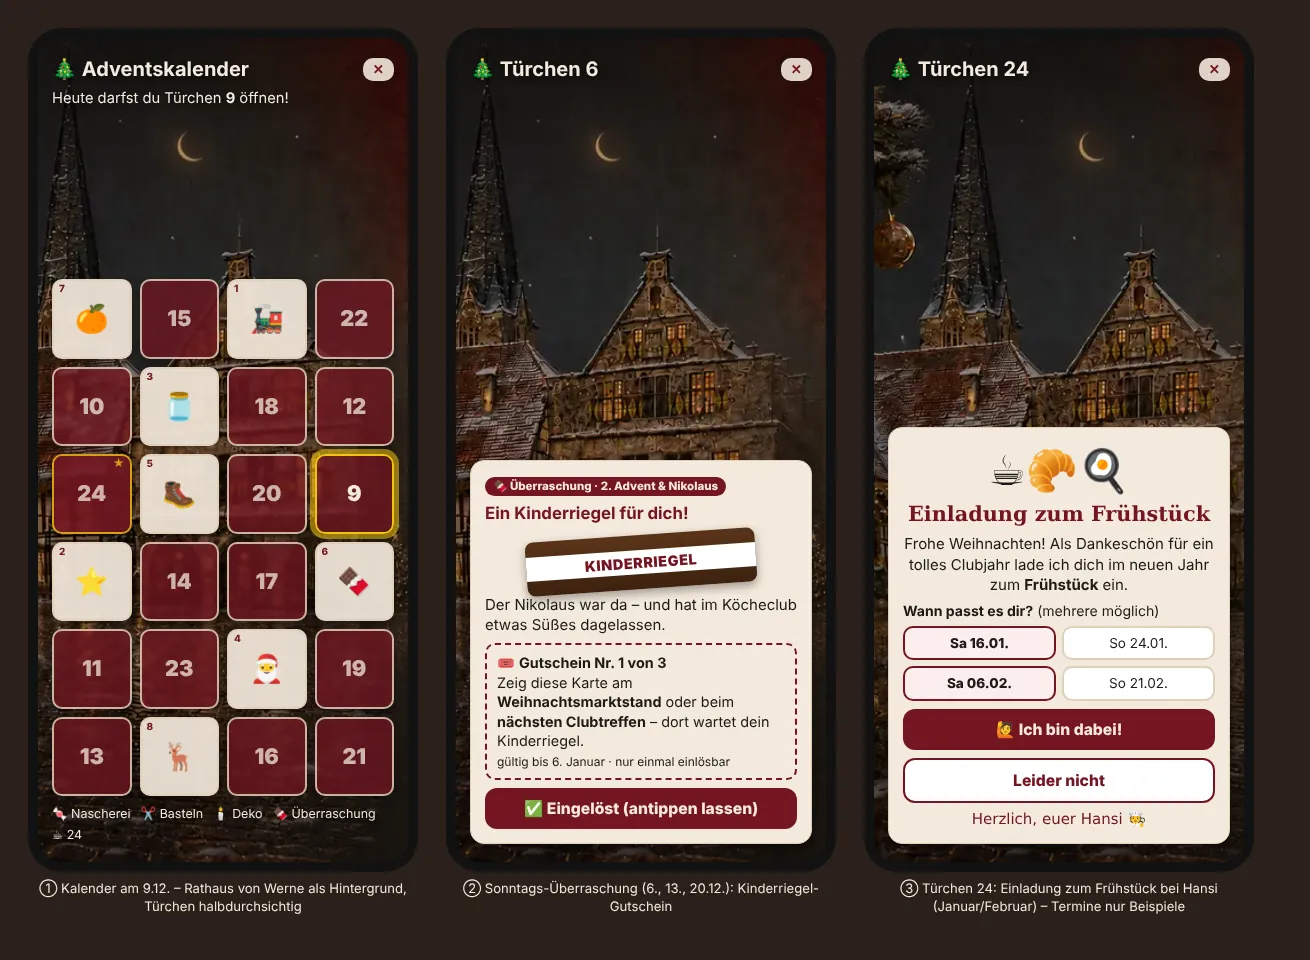
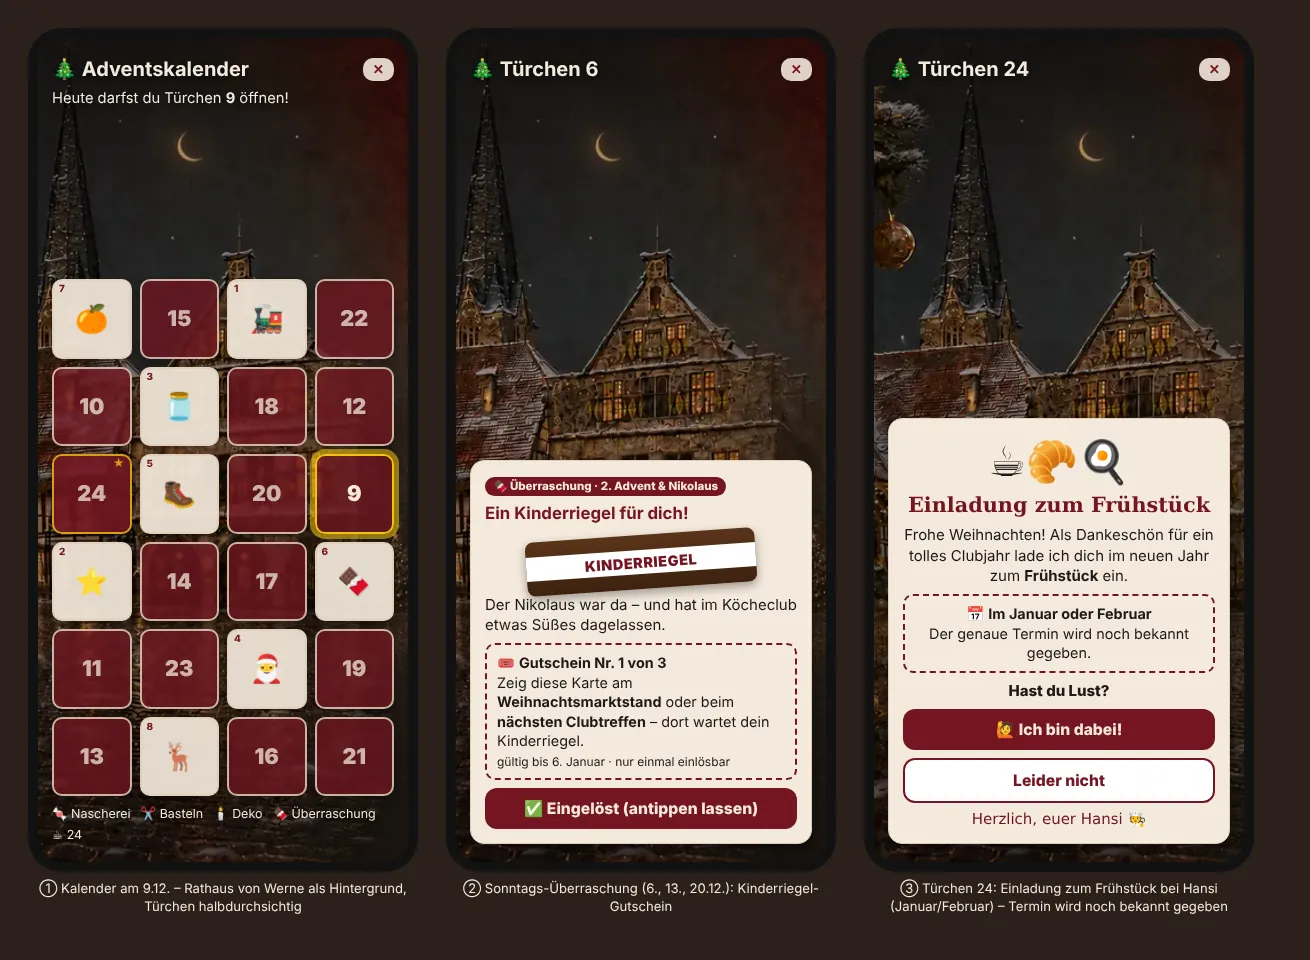
Adventskalender-Konzept: Antworten Hansi eingearbeitet
Echter Kinderriegel als Gutschein, Rathaus-Bild von Hansi selbst (darf
verwendet werden), Fruehstueckstermin wird noch bekannt gegeben -
Tuerchen 24 ohne Terminauswahl, nur "Hast du Lust?". Entwurfsbild
angepasst.

Claude-Session: https://claude.ai/code/session_013KUoDDPsbHMbAMMzShfeVP

Changed region(s): [[0.6718, 0.4375, 0.9466, 0.75], [0.6718, 0.9375, 0.9466, 0.9688]]

diff --git a/docs/club-app-adventskalender/entwurf.html b/docs/club-app-adventskalender/entwurf.html
@@ -71,13 +71,13 @@
     <div class="gross">☕🥐🍳</div>
     <h4>Einladung zum Frühstück</h4>
     <p style="margin:0 0 6px">Frohe Weihnachten! Als Dankeschön für ein tolles Clubjahr lade ich dich im neuen Jahr zum <b>Frühstück</b> ein.</p>
-    <div style="text-align:left; font-size:.88rem"><b>Wann passt es dir?</b> (mehrere möglich)</div>
-    <div class="wahl"><div class="an">Sa 16.01.</div><div>So 24.01.</div><div class="an">Sa 06.02.</div><div>So 21.02.</div></div>
+    <div class="gutschein" style="text-align:center">📅 <b>Im Januar oder Februar</b><br>Der genaue Termin wird noch bekannt gegeben.</div>
+    <div style="margin-top:8px; font-weight:800">Hast du Lust?</div>
     <button class="knopf">🙋 Ich bin dabei!</button>
     <button class="knopf hell">Leider nicht</button>
     <div class="unterschr">Herzlich, euer Hansi 🧑🍳</div>
   </div>
-</div></div><div class="unter">③ Türchen 24: Einladung zum Frühstück bei Hansi (Januar/Februar) – Termine nur Beispiele</div></div>
+</div></div><div class="unter">③ Türchen 24: Einladung zum Frühstück bei Hansi (Januar/Februar) – Termin wird noch bekannt gegeben</div></div>
 
 <script>
   const REIHE = [7, 15, 1, 22, 10, 3, 18, 12, 24, 5, 20, 9, 2, 14, 17, 6, 11, 23, 4, 19, 13, 8, 16, 21]; // = AK_REIHE der Club-App
